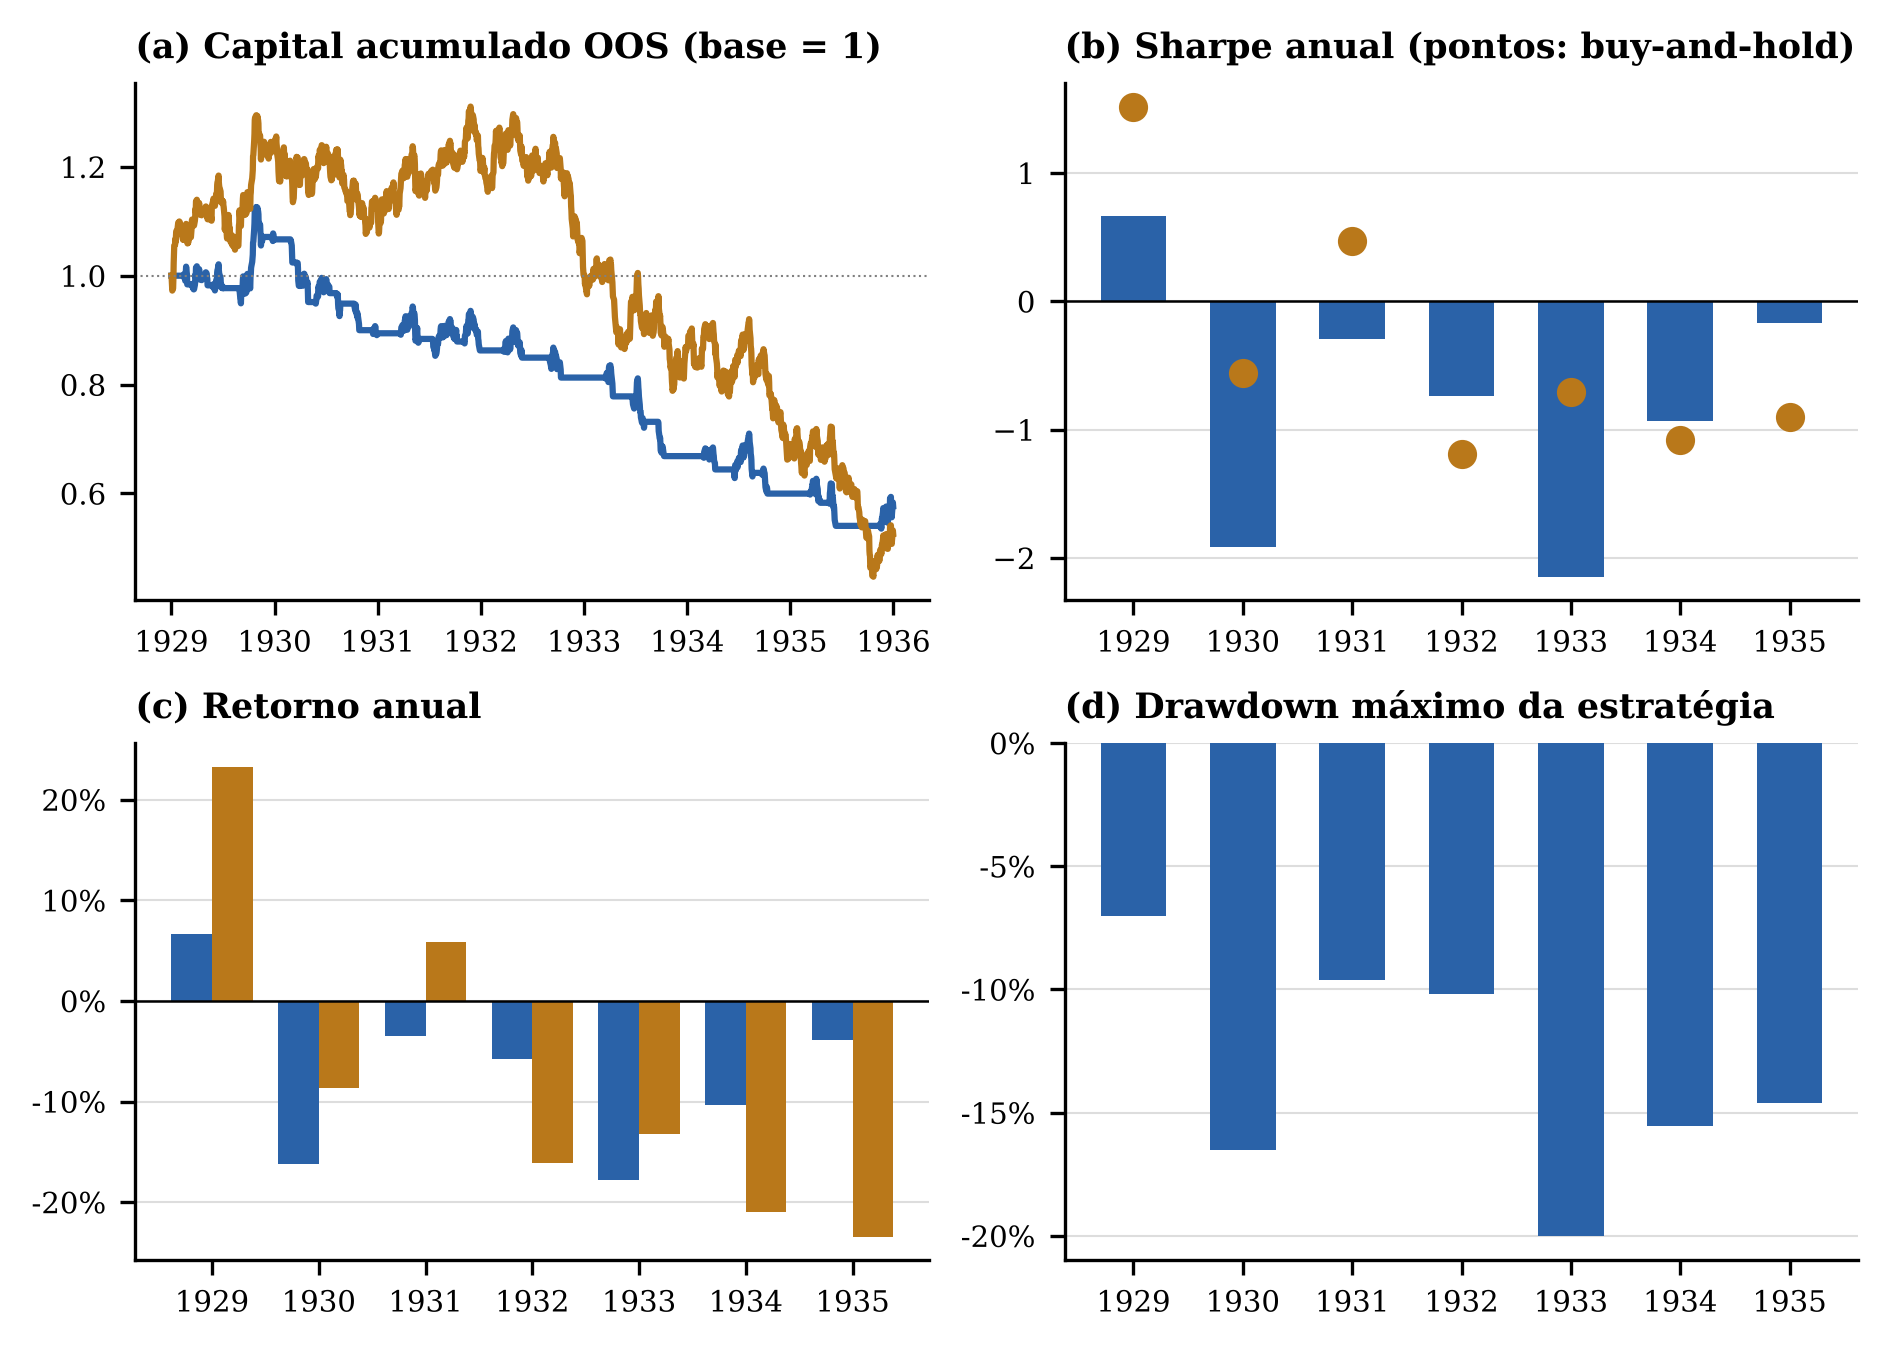
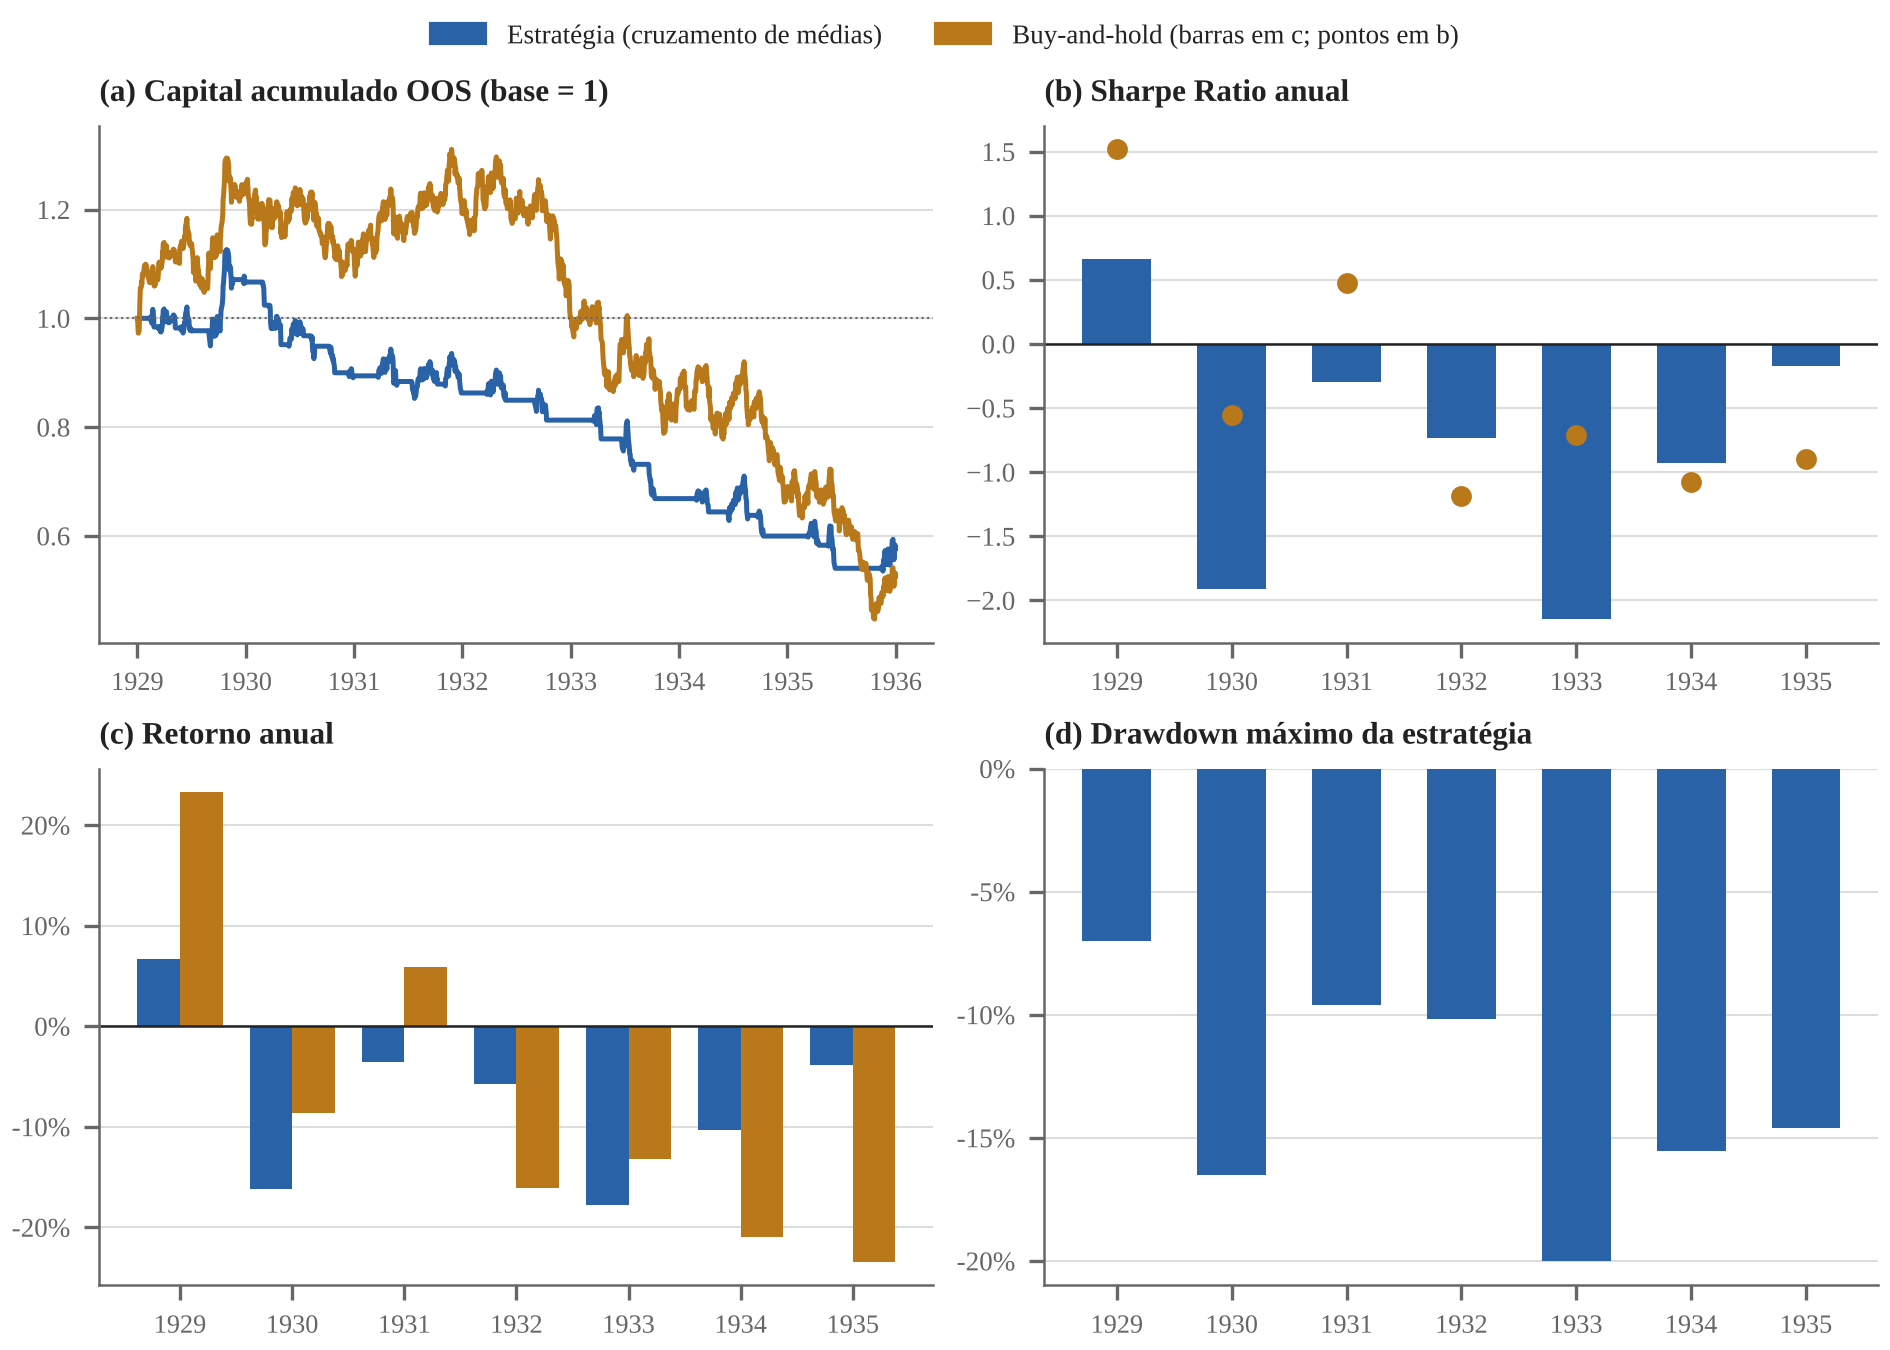
Figuras no mesmo estilo do artigo e volatilidade do buy-and-hold nas tabelas
Claude-Session: https://claude.ai/code/session_01PY4sBpRaC6D4xCqZwurGxS

diff --git a/backtest_conferencia.py b/backtest_conferencia.py
@@ -52,7 +52,7 @@ for i in range(len(anos) - TREINO):
         'Ano': anos[i + TREINO], 'Sharpe': sharpe(est), 'Sharpe B&H': sharpe(bh),
         'Ret. estr.': eq.iloc[-1] - 1, 'Ret. B&H': eq_bh.iloc[-1] - 1,
         'DD máx.': ((eq - eq.cummax()) / eq.cummax()).min(),
-        'CAGR': eq.iloc[-1] ** (252 / len(eq)) - 1, 'Vol.': est.std() * np.sqrt(252),
+        'CAGR': eq.iloc[-1] ** (252 / len(eq)) - 1, 'Vol.': est.std() * np.sqrt(252), 'Vol. B&H': bh.std() * np.sqrt(252),
         'Trades': int((sinal.diff().abs() == 1).sum()),
         'Dias compr. (%)': 100 * sinal.shift(1).fillna(0).mean(), 'Parâm.': f'MA{c}/{l}'})
     serie_estr += list(est); serie_bh += list(bh); datas += list(teste.Date)
@@ -61,44 +61,92 @@ t2 = pd.DataFrame(linhas)
 fases = {'Expansão / Crash': [1929], 'Contração': [1930, 1931, 1932, 1933], 'Recuperação': [1934, 1935]}
 t3 = pd.DataFrame([{'Fase': f, 'Sharpe médio': t2[t2.Ano.isin(a)].Sharpe.mean(),
                     'Vol. média': t2[t2.Ano.isin(a)]['Vol.'].mean(), 'DD médio': t2[t2.Ano.isin(a)]['DD máx.'].mean(),
-                    'Trades médios': t2[t2.Ano.isin(a)].Trades.mean(),
+                    'Trades médios': t2[t2.Ano.isin(a)].Trades.mean(), 'Vol. B&H média': t2[t2.Ano.isin(a)]['Vol. B&H'].mean(),
                     'Dias compr. (%)': t2[t2.Ano.isin(a)]['Dias compr. (%)'].mean()} for f, a in fases.items()])
 t2.to_csv('resultados/tabela2.csv', index=False); t3.to_csv('resultados/tabela3.csv', index=False)
 pd.set_option('display.width', 200)
 print(t2.round(4).to_string(index=False)); print(); print(t3.round(4).to_string(index=False))
 print('\nMédia diária OOS (todos os dias):', np.mean(serie_estr))
 
-# ---------------- figuras ----------------
-AZUL, OCRE, CINZA = '#2A62A8', '#B9781A', '#DDDDDD'
-plt.rcParams.update({'font.family': 'serif', 'font.size': 7, 'axes.spines.top': False, 'axes.spines.right': False,
+# ---------------- figuras (mesmo estilo das Figuras 1 e 2 do artigo) ----------------
+from matplotlib.lines import Line2D
+STRAT, BH, INK, MUTED, GRID = '#2A62A8', '#B9781A', '#222222', '#666666', '#DDDDDD'
+plt.rcParams.update({'font.family': 'serif', 'font.serif': ['Times New Roman', 'Liberation Serif', 'DejaVu Serif'],
+                     'font.size': 7, 'axes.titlesize': 7.5, 'axes.labelsize': 7,
+                     'xtick.labelsize': 6.5, 'ytick.labelsize': 6.5, 'legend.fontsize': 6.5,
+                     'axes.spines.top': False, 'axes.spines.right': False,
+                     'axes.edgecolor': MUTED, 'axes.linewidth': 0.6,
+                     'xtick.color': MUTED, 'ytick.color': MUTED, 'text.color': INK,
                      'axes.titleweight': 'bold', 'axes.titlelocation': 'left'})
-x = np.arange(len(t2)); pct = plt.FuncFormatter(lambda v, _: f'{v:.0%}'.replace('.', ','))
+recs = [dict(year=int(r['Ano']), sharpe=r['Sharpe'], sharpe_bh=r['Sharpe B&H'], ret=r['Ret. estr.'], ret_bh=r['Ret. B&H'],
+             dd=r['DD máx.'], cagr=r['CAGR'], vol=r['Vol.'], trades=r['Trades']) for _, r in t2.iterrows()]
+years = [r['year'] for r in recs]; x = np.arange(len(years))
+dates, st_all = datas, serie_estr
 eq_s, eq_b = np.cumprod(1 + np.array(serie_estr)), np.cumprod(1 + np.array(serie_bh))
+d = df
+pct = plt.FuncFormatter(lambda v, _: f'{v:.0%}'.replace('.', ','))
+from matplotlib.lines import Line2D
+from matplotlib.patches import Patch
+def yearticks(a):
+    a.set_xticks(x); a.set_xticklabels([str(y) for y in years], fontsize=6.3)
+def style(a):
+    a.grid(axis='y', color=GRID, linewidth=0.5); a.set_axisbelow(True)
 
-def anos_x(a):
-    a.set_xticks(x); a.set_xticklabels(t2.Ano.astype(str)); a.grid(axis='y', color=CINZA, lw=0.5); a.set_axisbelow(True)
+# ---------------- Figura 1: a-d ----------------
+fig, axs = plt.subplots(2, 2, figsize=(6.3, 4.5)); ax = axs.flatten()
+for a in ax: style(a)
+a = ax[0]
+a.plot(dates, eq_s, color=STRAT, lw=1.2); a.plot(dates, eq_b, color=BH, lw=1.2)
+a.axhline(1, color=MUTED, lw=0.5, ls=':')
+a.xaxis.set_major_locator(mdates.YearLocator(1)); a.xaxis.set_major_formatter(mdates.DateFormatter('%Y'))
+a.tick_params(axis='x', labelsize=6.3)
+a.set_title('(a) Capital acumulado OOS (base = 1)')
+a = ax[1]
+a.bar(x, [r['sharpe'] for r in recs], color=STRAT, width=0.6)
+a.plot(x, [r['sharpe_bh'] for r in recs], 'o', color=BH, ms=4)
+a.axhline(0, color=INK, lw=0.6); yearticks(a); a.set_title('(b) Sharpe Ratio anual')
+a = ax[2]; w = 0.38
+a.bar(x - w/2, [r['ret'] for r in recs], w, color=STRAT); a.bar(x + w/2, [r['ret_bh'] for r in recs], w, color=BH)
+a.axhline(0, color=INK, lw=0.6); a.yaxis.set_major_formatter(pct); yearticks(a); a.set_title('(c) Retorno anual')
+a = ax[3]
+a.bar(x, [r['dd'] for r in recs], color=STRAT, width=0.6)
+a.yaxis.set_major_locator(matplotlib.ticker.MultipleLocator(0.05)); a.yaxis.set_major_formatter(pct); yearticks(a); a.set_title('(d) Drawdown máximo da estratégia')
+fig.legend(handles=[Patch(color=STRAT), Patch(color=BH)],
+           labels=['Estratégia (cruzamento de médias)', 'Buy-and-hold (barras em c; pontos em b)'],
+           loc='upper center', ncol=2, frameon=False, bbox_to_anchor=(0.5, 1.0))
+fig.tight_layout(pad=0.4, h_pad=0.9, w_pad=0.8, rect=(0, 0, 1, 0.95))
+fig.savefig('resultados/figura1.png', dpi=300); plt.close(fig)
 
-fig, ax = plt.subplots(2, 2, figsize=(6.3, 4.5)); ax = ax.flatten()
-ax[0].plot(datas, eq_s, color=AZUL); ax[0].plot(datas, eq_b, color=OCRE); ax[0].axhline(1, ls=':', lw=0.5, color='gray')
-ax[0].set_title('(a) Capital acumulado OOS (base = 1)')
-ax[1].bar(x, t2.Sharpe, color=AZUL, width=0.6); ax[1].plot(x, t2['Sharpe B&H'], 'o', color=OCRE); ax[1].axhline(0, color='k', lw=0.6)
-anos_x(ax[1]); ax[1].set_title('(b) Sharpe anual (pontos: buy-and-hold)')
-ax[2].bar(x - 0.19, t2['Ret. estr.'], 0.38, color=AZUL); ax[2].bar(x + 0.19, t2['Ret. B&H'], 0.38, color=OCRE)
-ax[2].axhline(0, color='k', lw=0.6); ax[2].yaxis.set_major_formatter(pct); anos_x(ax[2]); ax[2].set_title('(c) Retorno anual')
-ax[3].bar(x, t2['DD máx.'], color=AZUL, width=0.6); ax[3].yaxis.set_major_formatter(pct); anos_x(ax[3])
-ax[3].set_title('(d) Drawdown máximo da estratégia')
-fig.tight_layout(); fig.savefig('resultados/figura1.png', dpi=300); plt.close(fig)
-
-fig = plt.figure(figsize=(6.3, 4.4)); gs = fig.add_gridspec(2, 3)
-a = [fig.add_subplot(gs[0, 0]), fig.add_subplot(gs[0, 1]), fig.add_subplot(gs[0, 2]), fig.add_subplot(gs[1, 0]), fig.add_subplot(gs[1, 1:])]
-a[0].plot(x, t2['Vol.'], '-o', color=AZUL); a[0].yaxis.set_major_formatter(pct); anos_x(a[0]); a[0].set_title('(e) Volatilidade anualizada')
-a[1].bar(x, t2.CAGR, color=AZUL, width=0.6); a[1].yaxis.set_major_formatter(pct); anos_x(a[1]); a[1].set_title('(f) CAGR anual')
-a[2].bar(x, t2.Trades, color=AZUL, width=0.6); anos_x(a[2]); a[2].set_title('(g) Número de trades')
-arr = np.array(serie_estr); a[3].hist(arr[arr != 0], bins=35, color=AZUL); a[3].axvline(arr.mean(), color=OCRE, ls='--')
-a[3].set_title('(h) Retornos diários (dias comprado)')
-a[4].plot(df.Date, df.Close, color='#AAAAAA', lw=0.6, label='Preço simulado')
-a[4].plot(df.Date, df.Close.rolling(8).mean(), color=AZUL, lw=0.9, label='MM 8 dias')
-a[4].plot(df.Date, df.Close.rolling(33).mean(), color=OCRE, lw=0.9, label='MM 33 dias')
-a[4].legend(frameon=False); a[4].set_title('(i) Preço simulado e médias móveis')
-fig.tight_layout(); fig.savefig('resultados/figura2.png', dpi=300); plt.close(fig)
+# ---------------- Figura 2: e-i ----------------
+fig = plt.figure(figsize=(6.3, 4.4))
+gs = fig.add_gridspec(2, 3)
+ax = [fig.add_subplot(gs[0, 0]), fig.add_subplot(gs[0, 1]), fig.add_subplot(gs[0, 2]),
+      fig.add_subplot(gs[1, 0]), fig.add_subplot(gs[1, 1:])]
+for a in ax: style(a)
+a = ax[0]
+a.plot(x, [r['vol'] for r in recs], '-o', color=STRAT, lw=1.2, ms=3.5)
+a.set_ylim(0, 0.18); a.yaxis.set_major_formatter(pct); yearticks(a); a.set_title('(e) Volatilidade anualizada')
+a = ax[1]
+a.bar(x, [r['cagr'] for r in recs], color=STRAT, width=0.6)
+a.axhline(0, color=INK, lw=0.6); a.yaxis.set_major_formatter(pct); yearticks(a); a.set_title('(f) CAGR anual')
+a = ax[2]
+a.bar(x, [r['trades'] for r in recs], color=STRAT, width=0.6)
+yearticks(a); a.set_title('(g) Número de trades'); a.yaxis.set_major_locator(matplotlib.ticker.MaxNLocator(integer=True))
+a = ax[3]
+arr = np.array(st_all); arr = arr[arr != 0]
+a.hist(arr, bins=35, color=STRAT, edgecolor='white', linewidth=0.3)
+m = np.mean(st_all)
+a.axvline(m, color=BH, lw=1.2, ls='--')
+a.text(0.98, 0.95, f'média = {m:.5f}'.replace('.', ','), transform=a.transAxes, ha='right', va='top', color=INK, fontsize=6.3)
+a.xaxis.set_major_formatter(plt.FuncFormatter(lambda v, _: f'{v:.2f}'.replace('.', ',')))
+a.set_title('(h) Retornos diários OOS (dias comprado)'); a.set_ylabel('Frequência')
+a = ax[4]
+a.plot(d.Date, d.Close, color='#AAAAAA', lw=0.6, label='Preço simulado')
+a.plot(d.Date, d.Close.rolling(8).mean(), color=STRAT, lw=0.9, label='MM 8 dias')
+a.plot(d.Date, d.Close.rolling(33).mean(), color=BH, lw=0.9, label='MM 33 dias')
+a.xaxis.set_major_locator(mdates.YearLocator(1)); a.xaxis.set_major_formatter(mdates.DateFormatter('%Y'))
+a.tick_params(axis='x', labelsize=6.3)
+a.set_title('(i) Preço simulado e médias móveis'); a.legend(frameon=False, loc='upper left')
+fig.tight_layout(pad=0.4, h_pad=0.9, w_pad=0.8)
+fig.savefig('resultados/figura2.png', dpi=300); plt.close(fig)
 print('Tabelas e figuras salvas em resultados/')

diff --git a/README.md b/README.md
@@ -13,7 +13,7 @@ Código e instruções de reprodução do artigo **"Análise de padrões estatí
 
 ## Resultados prontos
 
-A pasta `resultados/` já traz as saídas do script, para consulta sem precisar rodar nada: `tabela2.csv` e `tabela3.csv` (Tabelas 2 e 3 do artigo) e `figura1.png` e `figura2.png`.
+A pasta `resultados/` já traz as saídas do script, para consulta sem precisar rodar nada: `tabela2.csv` e `tabela3.csv` (Tabelas 2 e 3 do artigo, com a coluna extra `Vol. B&H`, volatilidade anualizada do buy-and-hold citada no texto) e `figura1.png` e `figura2.png` (idênticas às Figuras 1 e 2 do artigo).
 
 ## Dados
 
